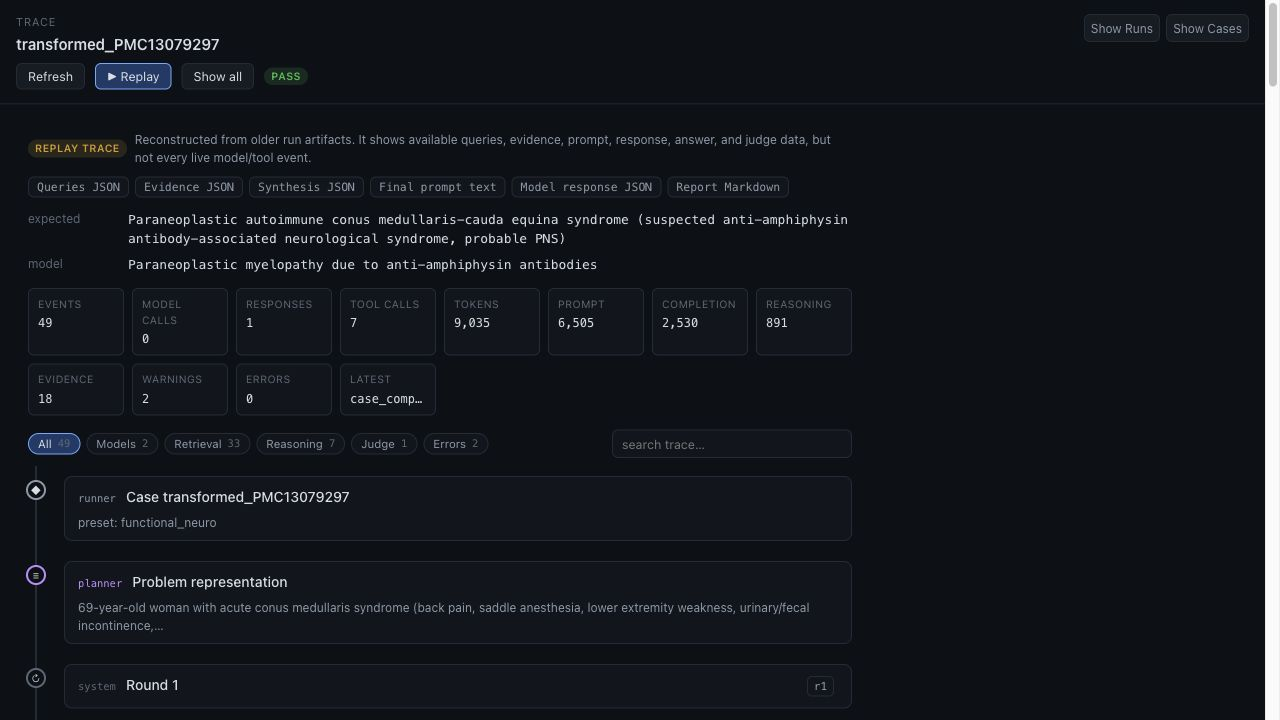
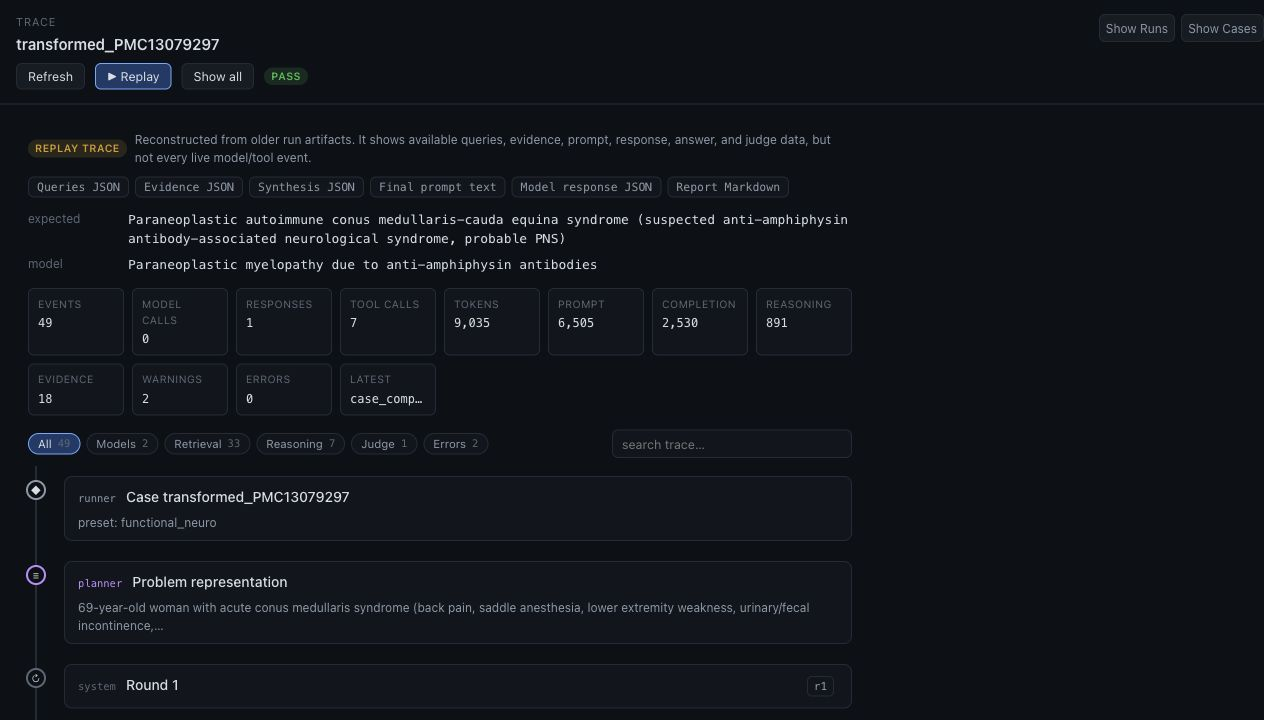
Polish README viewer screenshot

diff --git a/README.md b/README.md
@@ -14,7 +14,11 @@ diagnosis run as an inspectable trace: problem representation, generated
 queries, PubMed/PMC tool calls, retrieved evidence, synthesis, injected prompt
 packet, visible model responses, final diagnosis, and judge verdict.
 
-![ClinicalHarness Viewer trace](viewer/assets/clinical-viewer-trace.jpg)
+<a href="viewer/assets/clinical-viewer-trace.jpg">
+  <img src="viewer/assets/clinical-viewer-trace.jpg" alt="ClinicalHarness Viewer trace" width="100%">
+</a>
+
+<sub>Click the screenshot to view it full size.</sub>
 
 What makes it useful:
 

diff --git a/viewer/README.md b/viewer/README.md
@@ -4,7 +4,11 @@ A Codex / Claude-Code-style UI for **watching a diagnosis run unfold** — the
 clinical reasoning, query planning, literature retrieval, evidence synthesis,
 final diagnosis, and the judge's verdict — as a streaming agent trace.
 
-![ClinicalHarness Viewer trace](assets/clinical-viewer-trace.jpg)
+<a href="assets/clinical-viewer-trace.jpg">
+  <img src="assets/clinical-viewer-trace.jpg" alt="ClinicalHarness Viewer trace" width="100%">
+</a>
+
+<sub>Click the screenshot to view it full size.</sub>
 
 > **Status: MVP plus native event ledgers.** It reconstructs timelines from the
 > artifacts a finished run leaves in `runs/<run>/` and can "replay" them